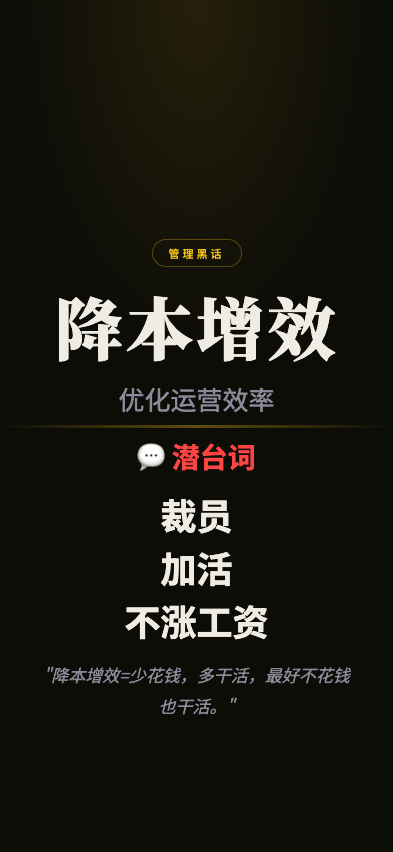
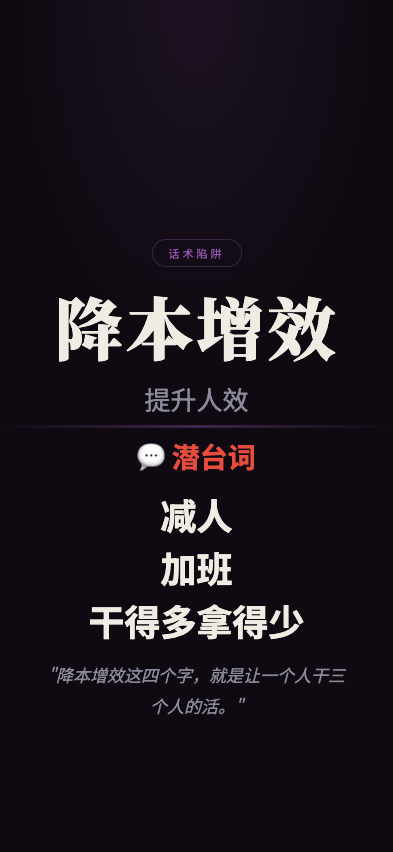
feat: 职场生存法则 screenshot - jiangbenzengxiao

diff --git a/wuliao-tools/tools/biz-speak/scenes/jiangbenzengxiao.html b/wuliao-tools/tools/biz-speak/scenes/jiangbenzengxiao.html
@@ -7,11 +7,11 @@
 <link href="https://fonts.googleapis.com/css2?family=Noto+Serif+SC:wght@400;700;900&family=Noto+Sans+SC:wght@300;400;700&display=swap" rel="stylesheet">
 <style>
   :root {
-    --bg: #0d0d08;
+    --bg: #0f0a12;
     --text: #f0ece4;
     --text-dim: #8a8a9a;
-    --gold: #f5c518;
-    --red: #ff4444;
+    --gold: #9b59b6;
+    --red: #e74c3c;
   }
   * { margin:0; padding:0; box-sizing:border-box; }
   html, body { width:100%; height:100%; overflow:hidden; }
@@ -24,11 +24,11 @@
   }
   body::before {
     content:''; position:absolute; top:0; left:0; right:0; height:45%;
-    background:radial-gradient(ellipse at 50% 0%, rgba(245,197,24,0.1) 0%, transparent 65%);
+    background:radial-gradient(ellipse at 50% 0%, rgba(155,89,182,0.1) 0%, transparent 65%);
     pointer-events:none; z-index:0;
   }
   .top { flex:1; display:flex; flex-direction:column; align-items:center; justify-content:flex-end; padding:4px 28px 8px; position:relative; z-index:1; }
-  .tag { font-size:11px; letter-spacing:3px; color:var(--gold); border:1px solid rgba(245,197,24,0.3); padding:5px 16px; border-radius:50px; margin-bottom:20px; }
+  .tag { font-size:11px; letter-spacing:3px; color:var(--gold); border:1px solid rgba(155,89,182,0.3); padding:5px 16px; border-radius:50px; margin-bottom:20px; }
   .main-title { font-family:'Noto Serif SC'; font-size:68px; font-weight:900; text-align:center; line-height:1.15; letter-spacing:3px; min-width:0; overflow-wrap:break-word; max-width:92%; }
   .sub-title { font-size:26px; color:var(--text-dim); text-align:center; margin-top:14px; }
   .divider { width:100%; height:3px; background:linear-gradient(90deg,transparent,var(--gold),transparent); opacity:0.35; flex-shrink:0; position:relative; z-index:1; }
@@ -41,19 +41,19 @@
 </head>
 <body>
   <div class="top">
-    <div class="tag">管理黑话</div>
+    <div class="tag">话术陷阱</div>
     <div class="main-title">降本增效</div>
-    <div class="sub-title">优化运营效率</div>
+    <div class="sub-title">提升人效</div>
   </div>
   <div class="divider"></div>
   <div class="bottom">
     <div class="truth-label">💬 潜台词</div>
     <div class="truth-lines">
-      <div class="truth-line">裁员</div>
-      <div class="truth-line">加活</div>
-      <div class="truth-line">不涨工资</div>
+      <div class="truth-line">减人</div>
+      <div class="truth-line">加班</div>
+      <div class="truth-line">干得多拿得少</div>
     </div>
-    <div class="quote">"降本增效=少花钱，多干活，最好不花钱也干活。"</div>
+    <div class="quote">"降本增效这四个字，就是让一个人干三个人的活。"</div>
   </div>
 </body>
 </html>
